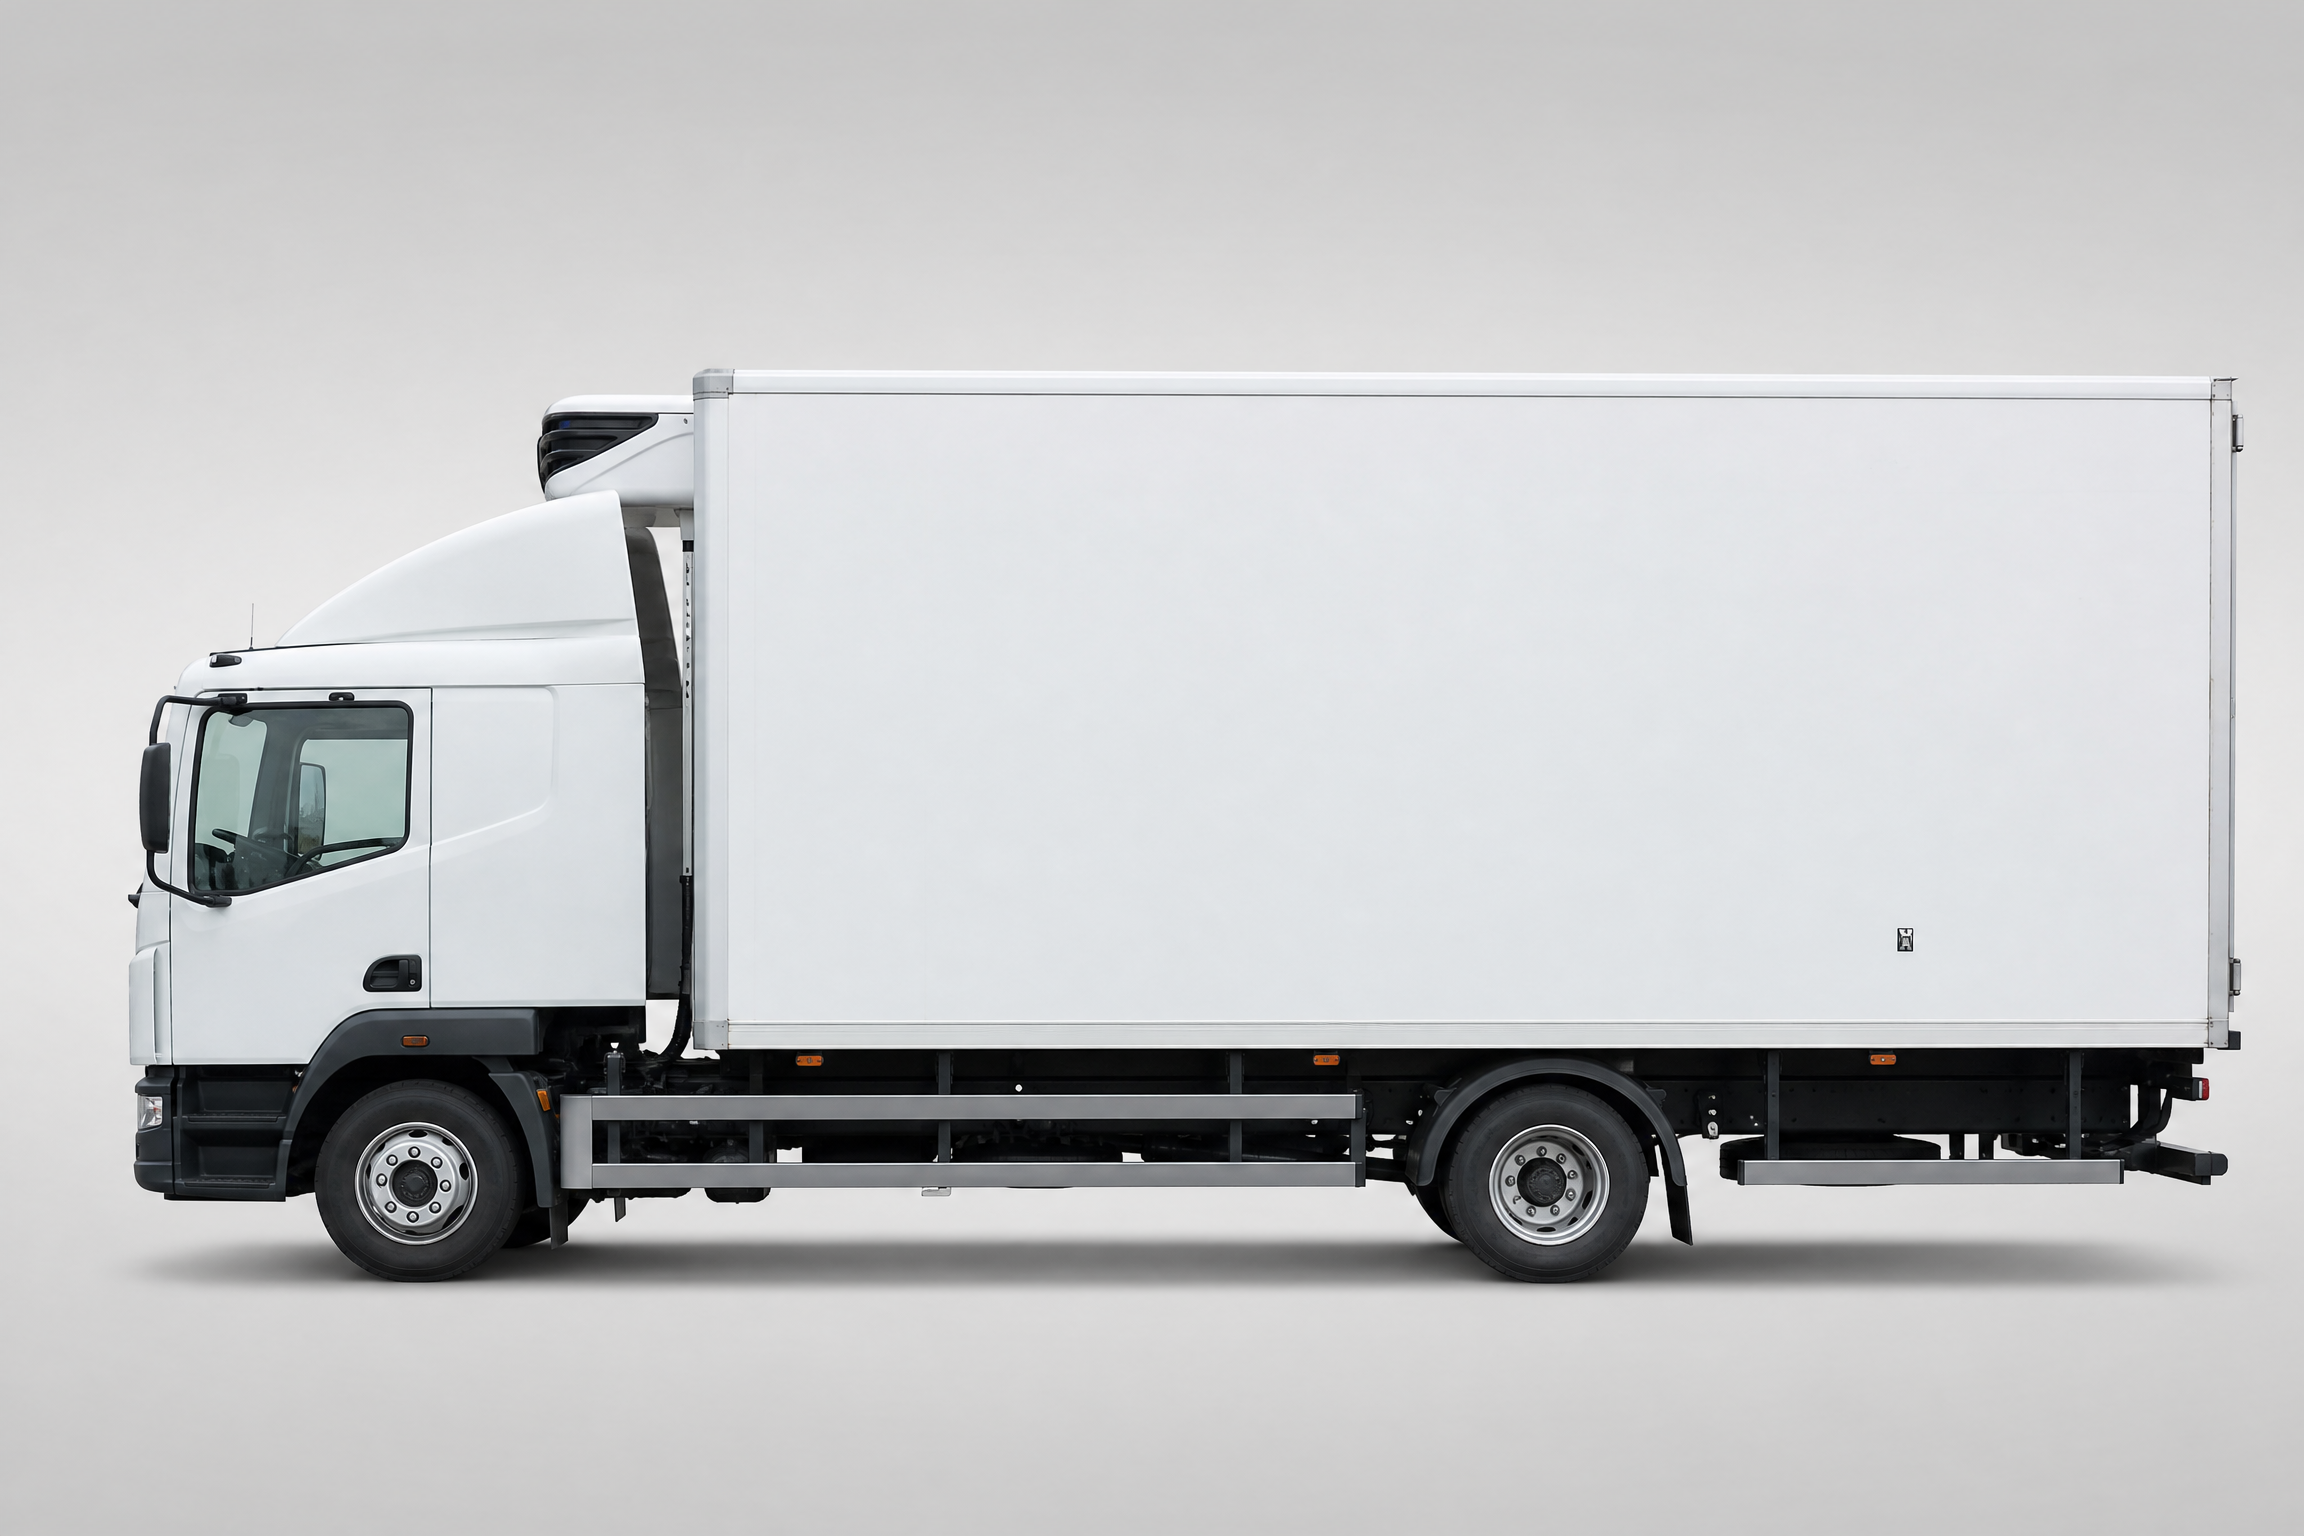
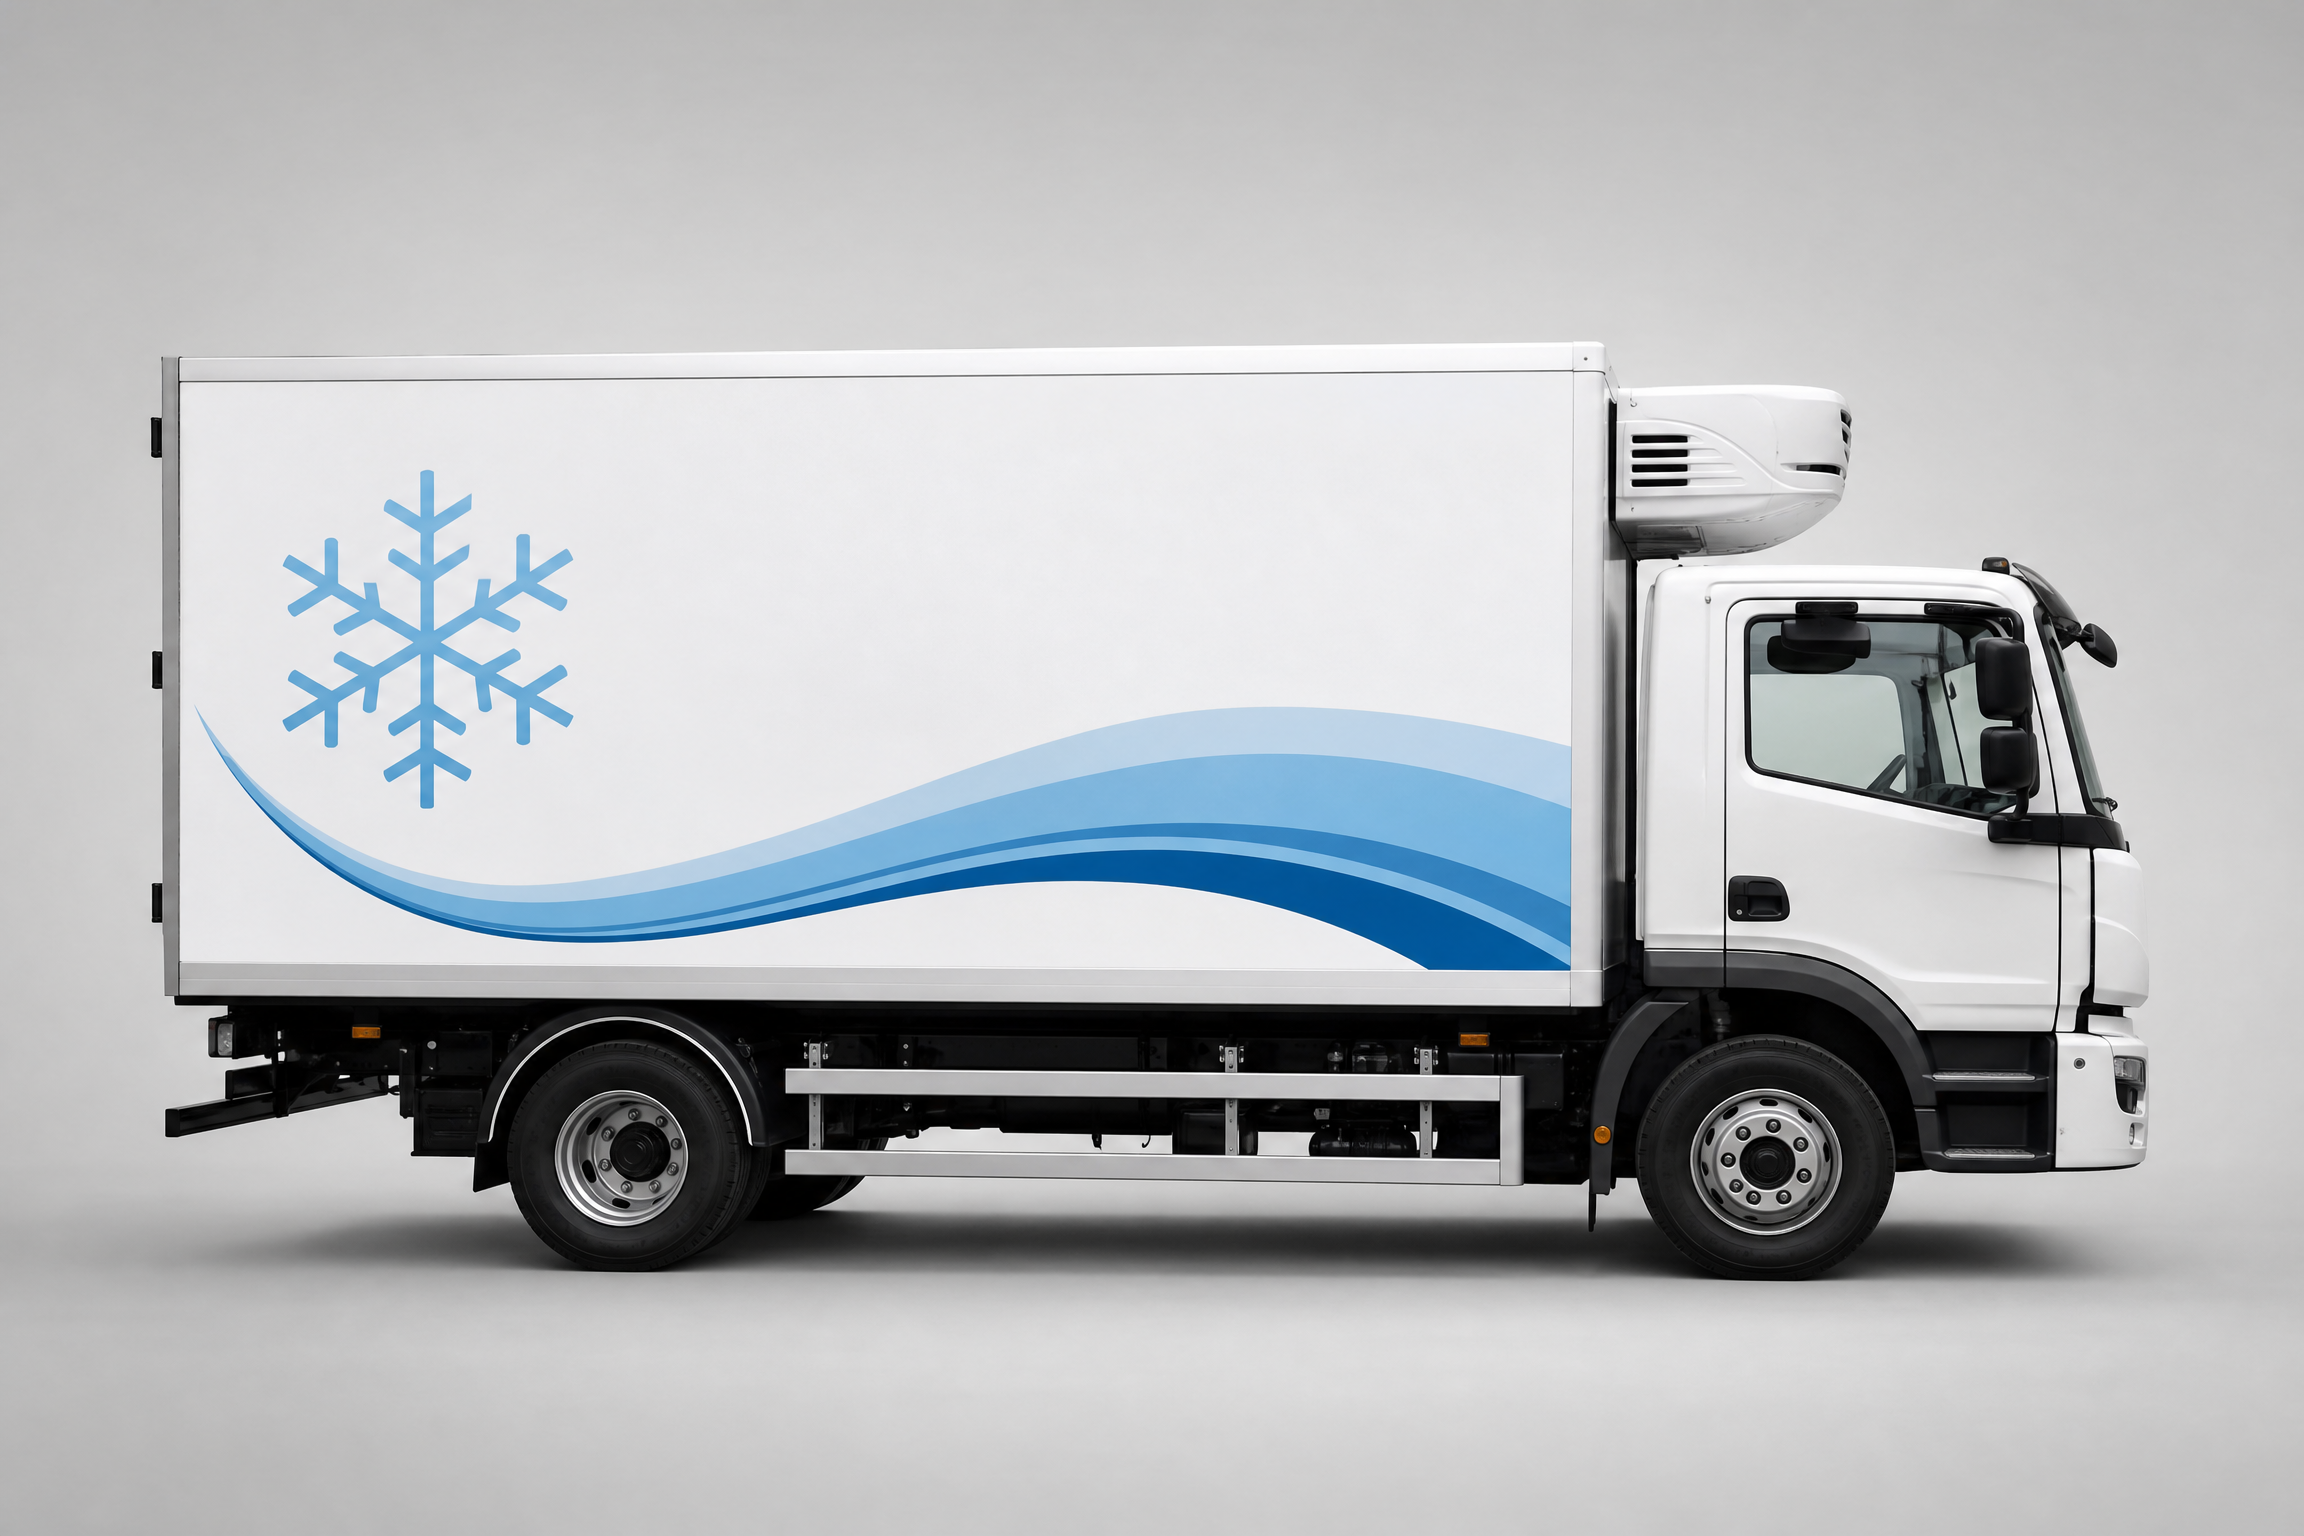
LocationCamions: 14 catégories complètes avec images réalistes (frigo, porte-voitures, citerne, malaxeur, bâché, fourgon lourd, grue, nacelle, chariot, pelleteuse)

Changed region(s): [[0.0, 0.2188, 1.0, 0.875]]

diff --git a/client/src/pages/LocationCamions.tsx b/client/src/pages/LocationCamions.tsx
@@ -16,7 +16,16 @@ const CATEGORIES = [
   { titre: "Bennes", modeles: ["Simple", "Double cabine", "Tri-benne"], photo: "/categories/camion_benne.jpg", count: 5 },
   { titre: "Plateaux", modeles: ["Porte-voiture", "Plateau ridelles"], photo: "/categories/camion_plateau.jpg", count: 4 },
   { titre: "Semi-remorques", modeles: ["Tautliner", "Bâché", "Citerne"], photo: "/categories/camion_semiremorque.jpg", count: 3 },
-  { titre: "Engins de chantier", modeles: ["Mini-pelle", "Chariot", "Nacelle"], photo: "/categories/camion_benne.jpg", count: 6 },
+  { titre: "Frigorifiques", modeles: ["7,5t frigo", "12t frigo", "19t frigo"], photo: "/categories/camion_frigo.jpg", count: 4 },
+  { titre: "Porte-voitures", modeles: ["2 niveaux", "3 niveaux", "Semi"], photo: "/categories/camion_porte_voitures.jpg", count: 3 },
+  { titre: "Citernes", modeles: ["Carburant", "Eau", "Alimentaire"], photo: "/categories/camion_citerne.jpg", count: 3 },
+  { titre: "Malaxeurs / Toupies", modeles: ["6m³", "8m³", "10m³"], photo: "/categories/camion_malaxeur.jpg", count: 2 },
+  { titre: "Bâchés", modeles: ["Tautliner", "Mega", "Jumbo"], photo: "/categories/camion_bache.jpg", count: 4 },
+  { titre: "Fourgons lourds", modeles: ["7,5t caisse", "12t caisse", "19t caisse"], photo: "/categories/camion_fourgon_lourd.jpg", count: 5 },
+  { titre: "Grues mobiles", modeles: ["25t", "50t", "100t"], photo: "/categories/engin_grue.jpg", count: 2 },
+  { titre: "Nacelles", modeles: ["12m", "20m", "30m"], photo: "/categories/engin_nacelle.jpg", count: 3 },
+  { titre: "Chariots élévateurs", modeles: ["2t", "3t", "5t"], photo: "/categories/engin_chariot.jpg", count: 4 },
+  { titre: "Mini-pelles / Pelleteuses", modeles: ["1,5t", "3t", "6t"], photo: "/categories/engin_pelleteuse.jpg", count: 5 },
 ];
 
 const VEHICULES = [